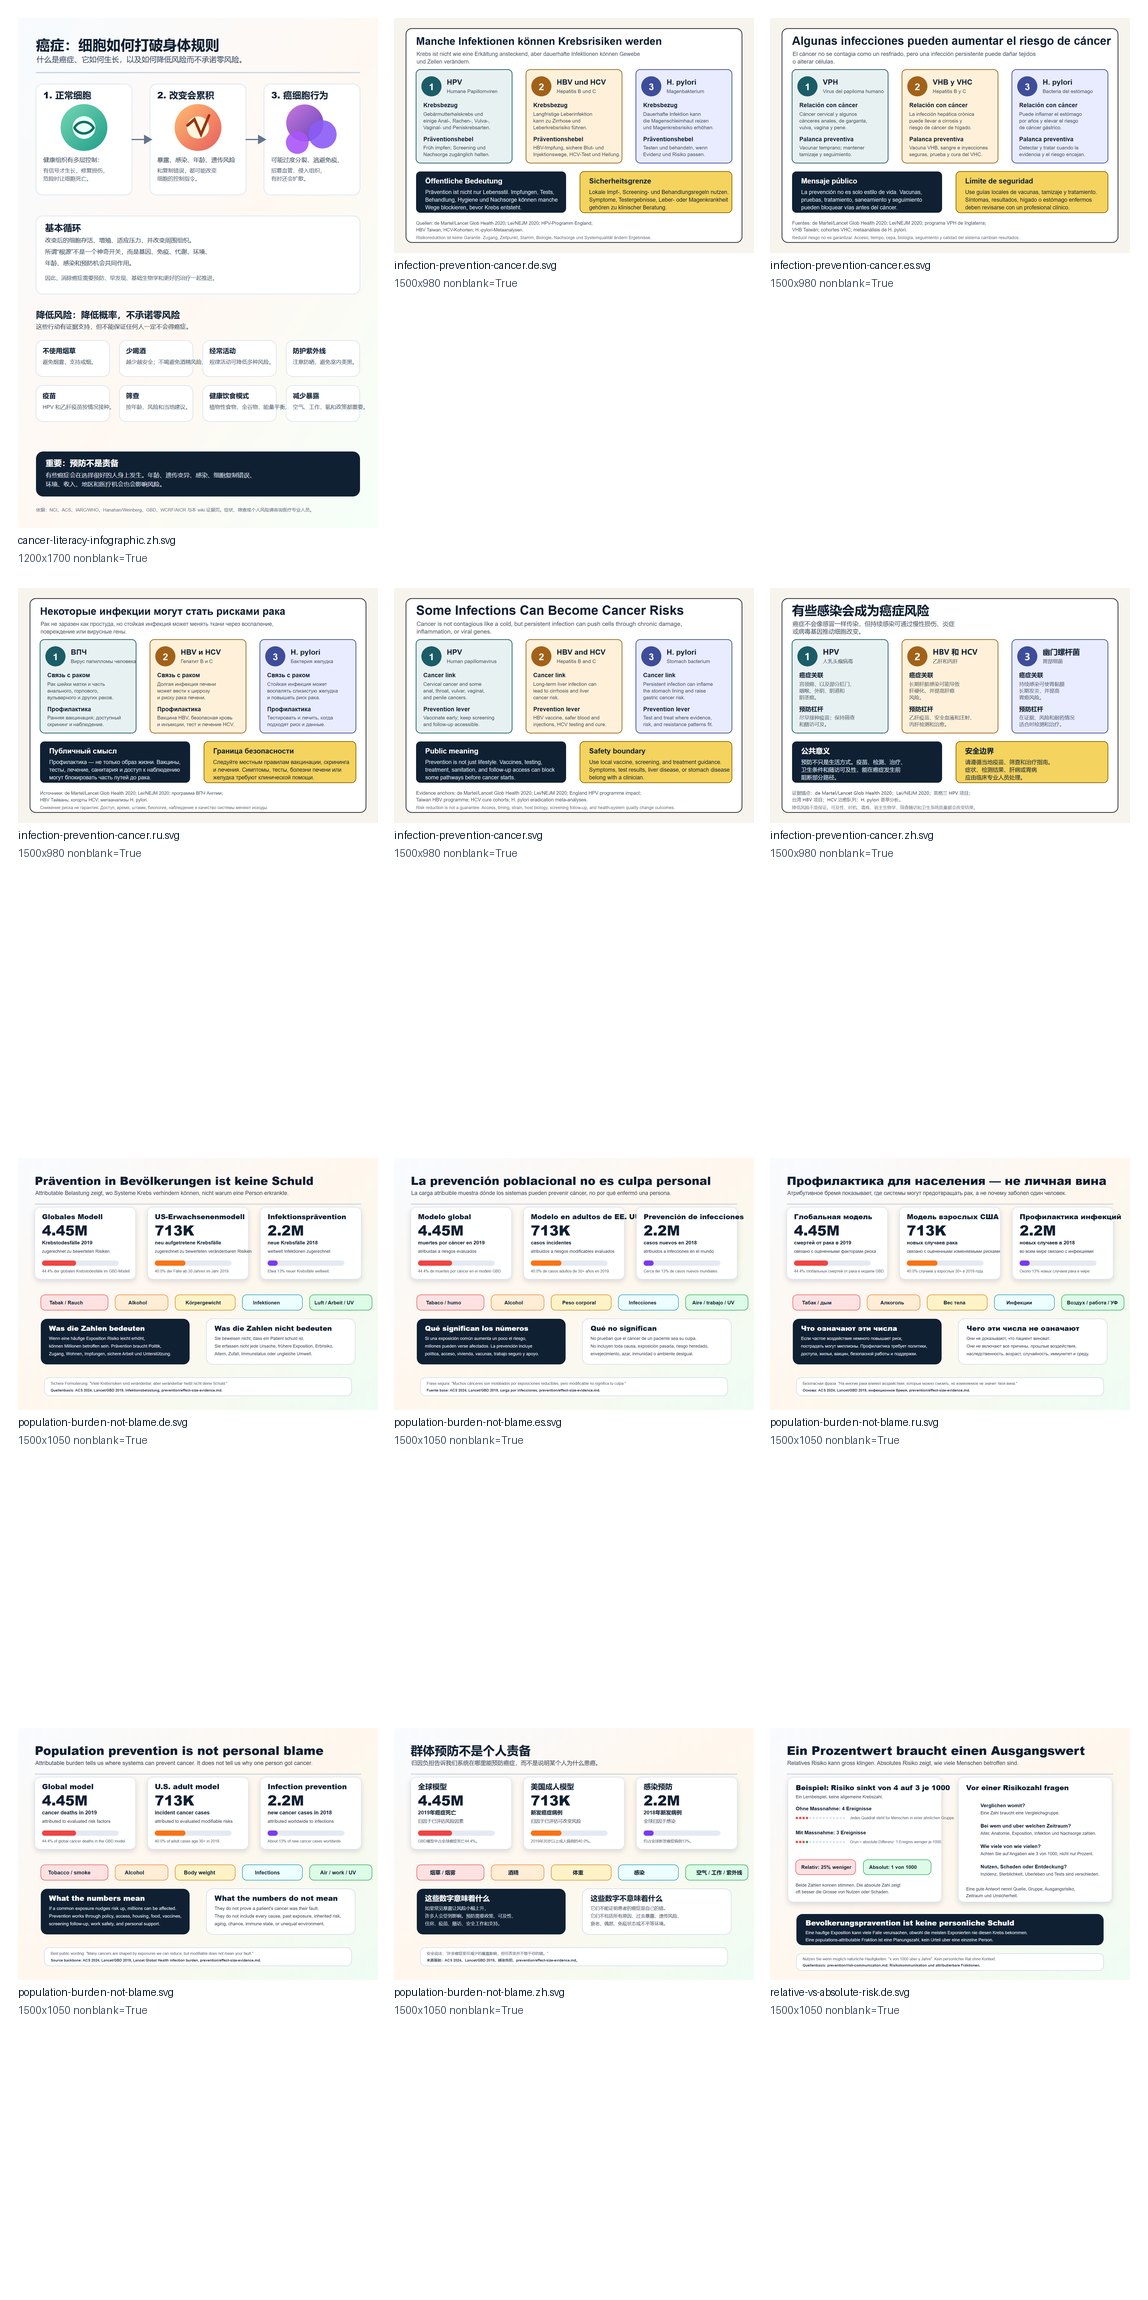
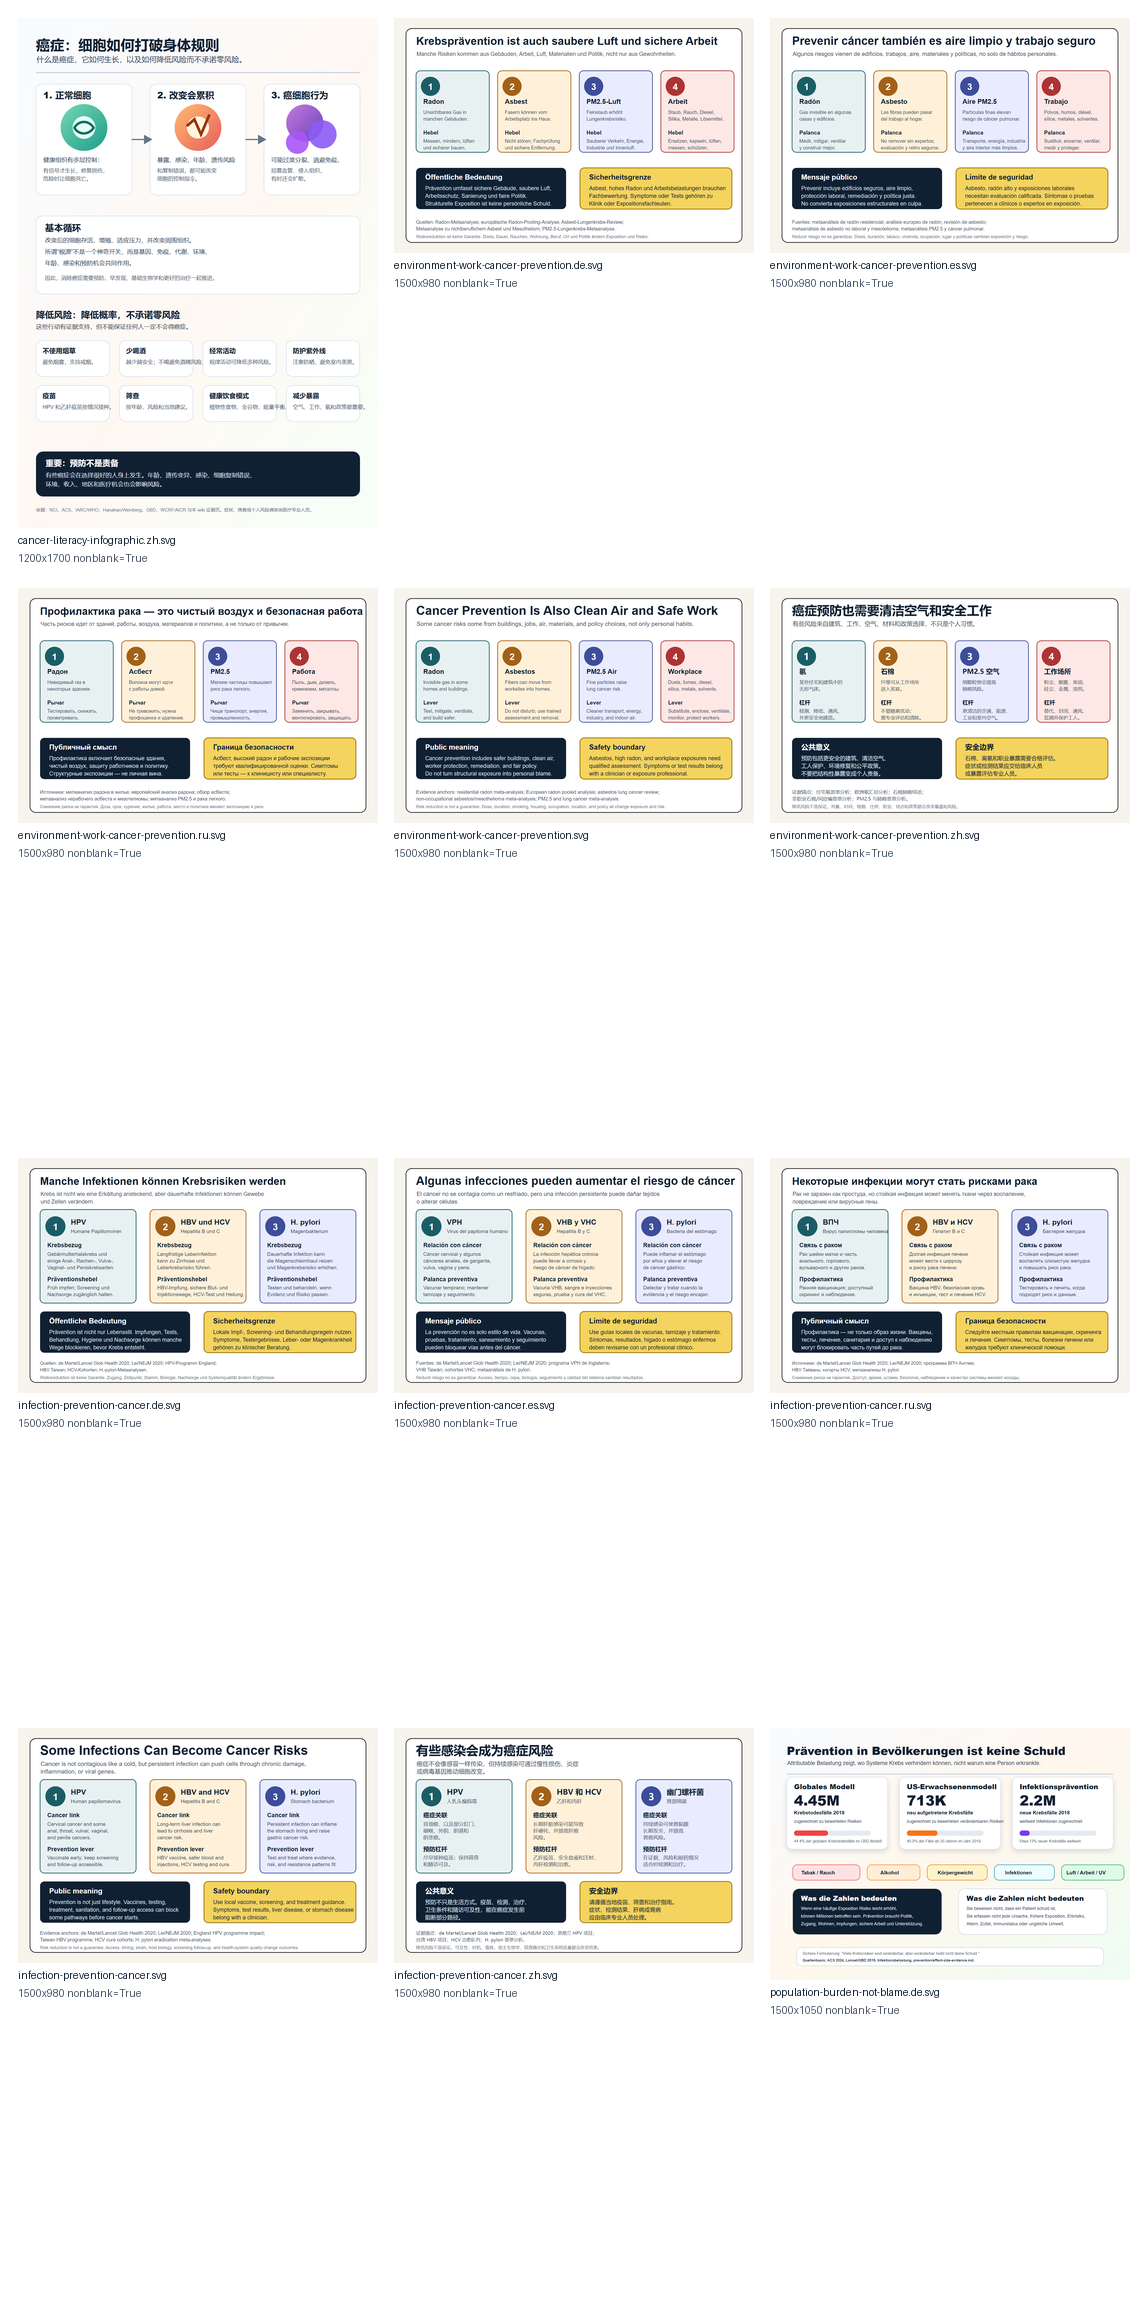
Add environment work prevention visuals

diff --git a/visuals/infographic-research-state-checks.md b/visuals/infographic-research-state-checks.md
@@ -24,6 +24,8 @@ Current screening/vaccination decision visual: `visuals/screening-vaccination-de
 
 Current infection-related cancer prevention visual: `visuals/infection-prevention-cancer.svg`
 
+Current environment/work prevention visual: `visuals/environment-work-cancer-prevention.svg`
+
 Current site-specific prevention visual: `visuals/site-specific-prevention-levers.svg`
 
 Current relative versus absolute risk visual: `visuals/relative-vs-absolute-risk.svg`
@@ -60,6 +62,13 @@ Current localized infection-prevention variants:
 - Mandarin Chinese: `visuals/infection-prevention-cancer.zh.svg`
 - Russian: `visuals/infection-prevention-cancer.ru.svg`
 
+Current localized environment/work variants:
+
+- Spanish: `visuals/environment-work-cancer-prevention.es.svg`
+- German: `visuals/environment-work-cancer-prevention.de.svg`
+- Mandarin Chinese: `visuals/environment-work-cancer-prevention.zh.svg`
+- Russian: `visuals/environment-work-cancer-prevention.ru.svg`
+
 Current localized relative/absolute risk variants:
 
 - Spanish: `visuals/relative-vs-absolute-risk.es.svg`
@@ -90,10 +99,11 @@ New QA artifacts:
 ### What Changed
 
 - The current SVG set now has repeatable headless Chrome render QA in addition to XML structural QA.
-- All 51 current SVGs render to nonblank PNGs at their declared canvas sizes.
+- All 56 current SVGs render to nonblank PNGs at their declared canvas sizes.
 - Contact sheets make it easier to inspect the visual set across languages and companions without opening every SVG one by one.
 - The claim-filter localized variants were included in this render pass; obvious German and Russian text overflow found during contact-sheet/full-size inspection was corrected before commit.
 - The infection-prevention visual set was included in the latest render pass; obvious English template overflow was corrected before commit, and English, German, Russian, and Mandarin full-size previews were inspected.
+- The environment/work visual set was included in the latest render pass; English, German, Russian, and Mandarin full-size previews were inspected, and obvious Russian card overflow was corrected before commit.
 
 ### Decision For The Flagship Infographic
 
@@ -151,6 +161,34 @@ Keep the flagship infographic's vaccine/screening wording broad. Use this compan
 ### Translation Impact
 
 Keep localized infection-prevention visuals under native review before promotion. Vaccine, screening, pathogen, and stigma-related wording varies by country and language, and should avoid implying that cancer itself is casually contagious.
+
+## 2026-06-12 Check: Environment And Work Prevention Visual
+
+Evidence page:
+
+- `prevention/environmental-exposure-evidence.md`
+
+New visual:
+
+- `visuals/environment-work-cancer-prevention.svg`
+- `visuals/environment-work-cancer-prevention.es.svg`
+- `visuals/environment-work-cancer-prevention.de.svg`
+- `visuals/environment-work-cancer-prevention.zh.svg`
+- `visuals/environment-work-cancer-prevention.ru.svg`
+
+### What Changed
+
+- The wiki now has a public companion visual showing that cancer prevention is also clean air, safe buildings, worker protection, remediation, and fair policy.
+- The visual highlights radon, asbestos, PM2.5 air pollution, and workplace carcinogen controls using the existing environmental evidence page, which tracks meta-analyses and specialist reviews rather than relying on CDC-only public summaries.
+- First-pass localized versions now exist for Spanish, German, Mandarin Chinese, and Russian.
+
+### Decision For The Flagship Infographic
+
+Keep the flagship infographic's structural-exposure message short. Use this companion when readers need a concrete explanation of why cancer prevention includes environmental and occupational controls, not only personal choices.
+
+### Translation Impact
+
+Keep localized environment/work visuals under native review before promotion. Radon, asbestos, PM2.5, remediation, and worker-safety terms vary by region and legal system.
 
 ## 2026-06-12 Check: Relative Versus Absolute Risk Visual
 

diff --git a/visuals/visual-qa-log.md b/visuals/visual-qa-log.md
@@ -13,6 +13,7 @@ Scope:
 - Companion adaptation infographic: English plus first localized SVGs.
 - Claim-filter add-on visual: English plus first localized SVGs.
 - Infection-prevention add-on visual: English plus first localized SVGs.
+- Environment/work add-on visual: English plus first localized SVGs.
 
 Checked files:
 
@@ -67,6 +68,11 @@ Checked files:
 - `visuals/infection-prevention-cancer.de.svg`
 - `visuals/infection-prevention-cancer.zh.svg`
 - `visuals/infection-prevention-cancer.ru.svg`
+- `visuals/environment-work-cancer-prevention.svg`
+- `visuals/environment-work-cancer-prevention.es.svg`
+- `visuals/environment-work-cancer-prevention.de.svg`
+- `visuals/environment-work-cancer-prevention.zh.svg`
+- `visuals/environment-work-cancer-prevention.ru.svg`
 
 Result:
 
@@ -88,7 +94,7 @@ Browser QA attempt:
 
 Scope:
 
-- All 51 SVG files in `visuals/`.
+- All 56 SVG files in `visuals/`.
 
 Tooling:
 
@@ -105,8 +111,8 @@ Generated artifacts:
 
 Result:
 
-- Headless Chrome rendered all 51 SVG files at their declared canvas sizes.
-- All 51 renders were nonblank.
+- Headless Chrome rendered all 56 SVG files at their declared canvas sizes.
+- All 56 renders were nonblank.
 - Contact-sheet inspection did not reveal blank canvases or completely missing non-Latin glyph rendering.
 - Some dense translated visuals, especially non-Latin and right-to-left layouts, still need close human inspection for clipping, text crowding, line overflow, and translation quality.
 
@@ -135,6 +141,8 @@ Repository note:
 | Claim-filter localized SVGs | Passed | Headless Chrome nonblank passed; obvious German/Russian overflow fixed; close layout review still needed | Still needed |
 | Infection-prevention SVG | Passed | Headless Chrome nonblank passed; obvious overflow fixed; close layout review still needed | Not applicable |
 | Infection-prevention localized SVGs | Passed | Headless Chrome nonblank passed; English/German/Russian/Mandarin full-size previews checked; close layout review still needed | Still needed |
+| Environment/work prevention SVG | Passed | Headless Chrome nonblank passed; English full-size preview checked | Not applicable |
+| Environment/work prevention localized SVGs | Passed | Headless Chrome nonblank passed; German/Russian/Mandarin full-size previews checked; obvious Russian overflow fixed | Still needed |
 
 ## Next Visual QA Tasks
 

diff --git a/i18n/README.md b/i18n/README.md
@@ -104,6 +104,18 @@ This public visual explains that cancer is not contagious like a cold, but some 
 | Mandarin Chinese | [infection-prevention-cancer.zh.svg](../visuals/infection-prevention-cancer.zh.svg) | First localized SVG; native review needed |
 | Russian | [infection-prevention-cancer.ru.svg](../visuals/infection-prevention-cancer.ru.svg) | First localized SVG; native review needed |
 
+## Environment And Work Prevention Visual Variants
+
+This public visual explains that cancer prevention also includes clean air, radon-safe buildings, asbestos control, and workplace carcinogen protection. These translations should receive native review before final wording because exposure terms and worker-safety systems vary by country.
+
+| Language | Image | Status |
+| --- | --- | --- |
+| English | [environment-work-cancer-prevention.svg](../visuals/environment-work-cancer-prevention.svg) | Canonical first-pass SVG |
+| Spanish | [environment-work-cancer-prevention.es.svg](../visuals/environment-work-cancer-prevention.es.svg) | First localized SVG; native review needed |
+| German | [environment-work-cancer-prevention.de.svg](../visuals/environment-work-cancer-prevention.de.svg) | First localized SVG; native review needed |
+| Mandarin Chinese | [environment-work-cancer-prevention.zh.svg](../visuals/environment-work-cancer-prevention.zh.svg) | First localized SVG; native review needed |
+| Russian | [environment-work-cancer-prevention.ru.svg](../visuals/environment-work-cancer-prevention.ru.svg) | First localized SVG; native review needed |
+
 ## Site-Specific Prevention Visual Variants
 
 This public visual maps major cancer sites to high-signal prevention, vaccination, screening, and exposure-reduction levers. These translations should receive native review before being treated as final medical wording.

diff --git a/crawl-queue/goal-1-next-crawl.md b/crawl-queue/goal-1-next-crawl.md
@@ -44,6 +44,7 @@ Last updated: 2026-06-12
 - Visually QA and expand the new agent-facing concept map: `visuals/risk-mechanism-prevention-map.svg`.
 - Visually QA the public "cancer claim filter" visual and first localized variants: `visuals/cancer-claim-filter.svg`, `.es.svg`, `.de.svg`, `.zh.svg`, and `.ru.svg`. Then gather native-language examples of misleading cancer-claim wording before expanding the visual to additional languages.
 - Visually QA the infection-related cancer prevention visual and first localized variants: `visuals/infection-prevention-cancer.svg`, `.es.svg`, `.de.svg`, `.zh.svg`, and `.ru.svg`. Then deepen regional H. pylori, HBV, HCV, and HPV evidence before expanding to additional languages.
+- Visually QA the environment/work prevention visual and first localized variants: `visuals/environment-work-cancer-prevention.svg`, `.es.svg`, `.de.svg`, `.zh.svg`, and `.ru.svg`. Then deepen region-specific radon, asbestos, PM2.5, diesel exhaust, silica, and worker-protection evidence before expanding to additional languages.
 - Visually QA the new site-specific prevention visual and first localized variants: `visuals/site-specific-prevention-levers.svg`, `.es.svg`, `.de.svg`, `.zh.svg`, and `.ru.svg`. Then expand to additional languages if the compact layout holds.
 - Visually QA the new relative versus absolute risk visual and first localized variants: `visuals/relative-vs-absolute-risk.svg`, `.es.svg`, `.de.svg`, `.zh.svg`, and `.ru.svg`. Then expand to additional languages if the compact layout holds.
 - Visually QA the new population burden/no-blame visual and first localized variants: `visuals/population-burden-not-blame.svg`, `.es.svg`, `.de.svg`, `.zh.svg`, and `.ru.svg`. Then expand to additional languages if the compact layout holds.

diff --git a/prevention/environmental-exposure-evidence.md b/prevention/environmental-exposure-evidence.md
@@ -5,6 +5,11 @@ Last updated: 2026-06-12
 
 This page supports the public infographic by making structural exposure prevention visible. Cancer prevention is not only personal behavior; it is also clean air, safe buildings, safe work, and exposure controls.
 
+Companion visual:
+
+- `visuals/environment-work-cancer-prevention.svg`
+- First localized visual variants: `visuals/environment-work-cancer-prevention.es.svg`, `visuals/environment-work-cancer-prevention.de.svg`, `visuals/environment-work-cancer-prevention.zh.svg`, and `visuals/environment-work-cancer-prevention.ru.svg`
+
 ## Plain-Language Summary
 
 Some carcinogen exposures come from homes, workplaces, outdoor air, building materials, industrial history, transportation systems, and policy choices. Individuals can sometimes test, mitigate, avoid, or use protective equipment, but many of the biggest levers are collective: regulation, remediation, safer materials, ventilation, worker protection, and pollution reduction.
@@ -98,6 +103,16 @@ Visuals:
 - Factory/work helmet with shield.
 - Clean air icon.
 - Warning label for asbestos disturbance.
+
+Current companion visual:
+
+- `visuals/environment-work-cancer-prevention.svg`
+- `visuals/environment-work-cancer-prevention.es.svg`
+- `visuals/environment-work-cancer-prevention.de.svg`
+- `visuals/environment-work-cancer-prevention.zh.svg`
+- `visuals/environment-work-cancer-prevention.ru.svg`
+
+Translation review task: keep localized environment/work visuals under native review before public-final use, because radon, asbestos, PM2.5, and worker-safety terminology vary by region and legal system.
 
 ## Next Research Tasks
 

diff --git a/README.md b/README.md
@@ -64,6 +64,17 @@ Infection-related cancer prevention visual:
 
 ![Some infections can become cancer risks](visuals/infection-prevention-cancer.svg)
 
+Environment and work cancer prevention visual:
+
+![Cancer prevention is also clean air and safe work](visuals/environment-work-cancer-prevention.svg)
+
+Localized environment/work variants:
+
+- [Spanish environment/work SVG](visuals/environment-work-cancer-prevention.es.svg)
+- [German environment/work SVG](visuals/environment-work-cancer-prevention.de.svg)
+- [Mandarin Chinese environment/work SVG](visuals/environment-work-cancer-prevention.zh.svg)
+- [Russian environment/work SVG](visuals/environment-work-cancer-prevention.ru.svg)
+
 Localized infection-prevention variants:
 
 - [Spanish infection-prevention SVG](visuals/infection-prevention-cancer.es.svg)
@@ -160,6 +171,7 @@ Research backing:
 - [Cancer growth mechanism map](concepts/cancer-growth-mechanism-map.md)
 - [Infographic brief](visuals/goal-1-infographic-brief.md)
 - [Claim-filter visual](visuals/cancer-claim-filter.svg)
+- [Environment and work cancer prevention visual](visuals/environment-work-cancer-prevention.svg)
 - [Infection-related cancer prevention visual](visuals/infection-prevention-cancer.svg)
 - [How cancer keeps adapting visual](visuals/cancer-keeps-adapting.svg)
 - [Screening and vaccination decision visual](visuals/screening-vaccination-decision.svg)

diff --git a/visuals/README.md b/visuals/README.md
@@ -66,6 +66,11 @@ Use `../tools/render_svg_contact_sheets.py` to render all SVGs with local headle
 | Infection-related cancer prevention - German | `infection-prevention-cancer.de.svg` | First localized SVG; native review needed |
 | Infection-related cancer prevention - Mandarin Chinese | `infection-prevention-cancer.zh.svg` | First localized SVG; native review needed |
 | Infection-related cancer prevention - Russian | `infection-prevention-cancer.ru.svg` | First localized SVG; native review needed |
+| Environment and work cancer prevention | `environment-work-cancer-prevention.svg` | First-pass English SVG |
+| Environment and work cancer prevention - Spanish | `environment-work-cancer-prevention.es.svg` | First localized SVG; native review needed |
+| Environment and work cancer prevention - German | `environment-work-cancer-prevention.de.svg` | First localized SVG; native review needed |
+| Environment and work cancer prevention - Mandarin Chinese | `environment-work-cancer-prevention.zh.svg` | First localized SVG; native review needed |
+| Environment and work cancer prevention - Russian | `environment-work-cancer-prevention.ru.svg` | First localized SVG; native review needed |
 
 ## Companion Mechanism Visuals
 

diff --git a/visuals/qa-renders/svg-browser-render-qa-report.md b/visuals/qa-renders/svg-browser-render-qa-report.md
@@ -4,8 +4,8 @@ Date: 2026-06-12
 
 Renderer: `C:\Program Files\Google\Chrome\Application\chrome.exe`
 
-SVG files rendered: 51
-Nonblank renders: 51
+SVG files rendered: 56
+Nonblank renders: 56
 Blank or near-blank renders: 0
 
 ## Contact Sheets
@@ -51,6 +51,11 @@ Blank or near-blank renders: 0
 | `cancer-literacy-infographic.tr.svg` | 1200x1700 | True | 29.63 |
 | `cancer-literacy-infographic.vi.svg` | 1200x1700 | True | 29.31 |
 | `cancer-literacy-infographic.zh.svg` | 1200x1700 | True | 30.16 |
+| `environment-work-cancer-prevention.de.svg` | 1500x980 | True | 38.08 |
+| `environment-work-cancer-prevention.es.svg` | 1500x980 | True | 38.50 |
+| `environment-work-cancer-prevention.ru.svg` | 1500x980 | True | 38.03 |
+| `environment-work-cancer-prevention.svg` | 1500x980 | True | 38.55 |
+| `environment-work-cancer-prevention.zh.svg` | 1500x980 | True | 38.53 |
 | `infection-prevention-cancer.de.svg` | 1500x980 | True | 38.75 |
 | `infection-prevention-cancer.es.svg` | 1500x980 | True | 39.73 |
 | `infection-prevention-cancer.ru.svg` | 1500x980 | True | 38.71 |
